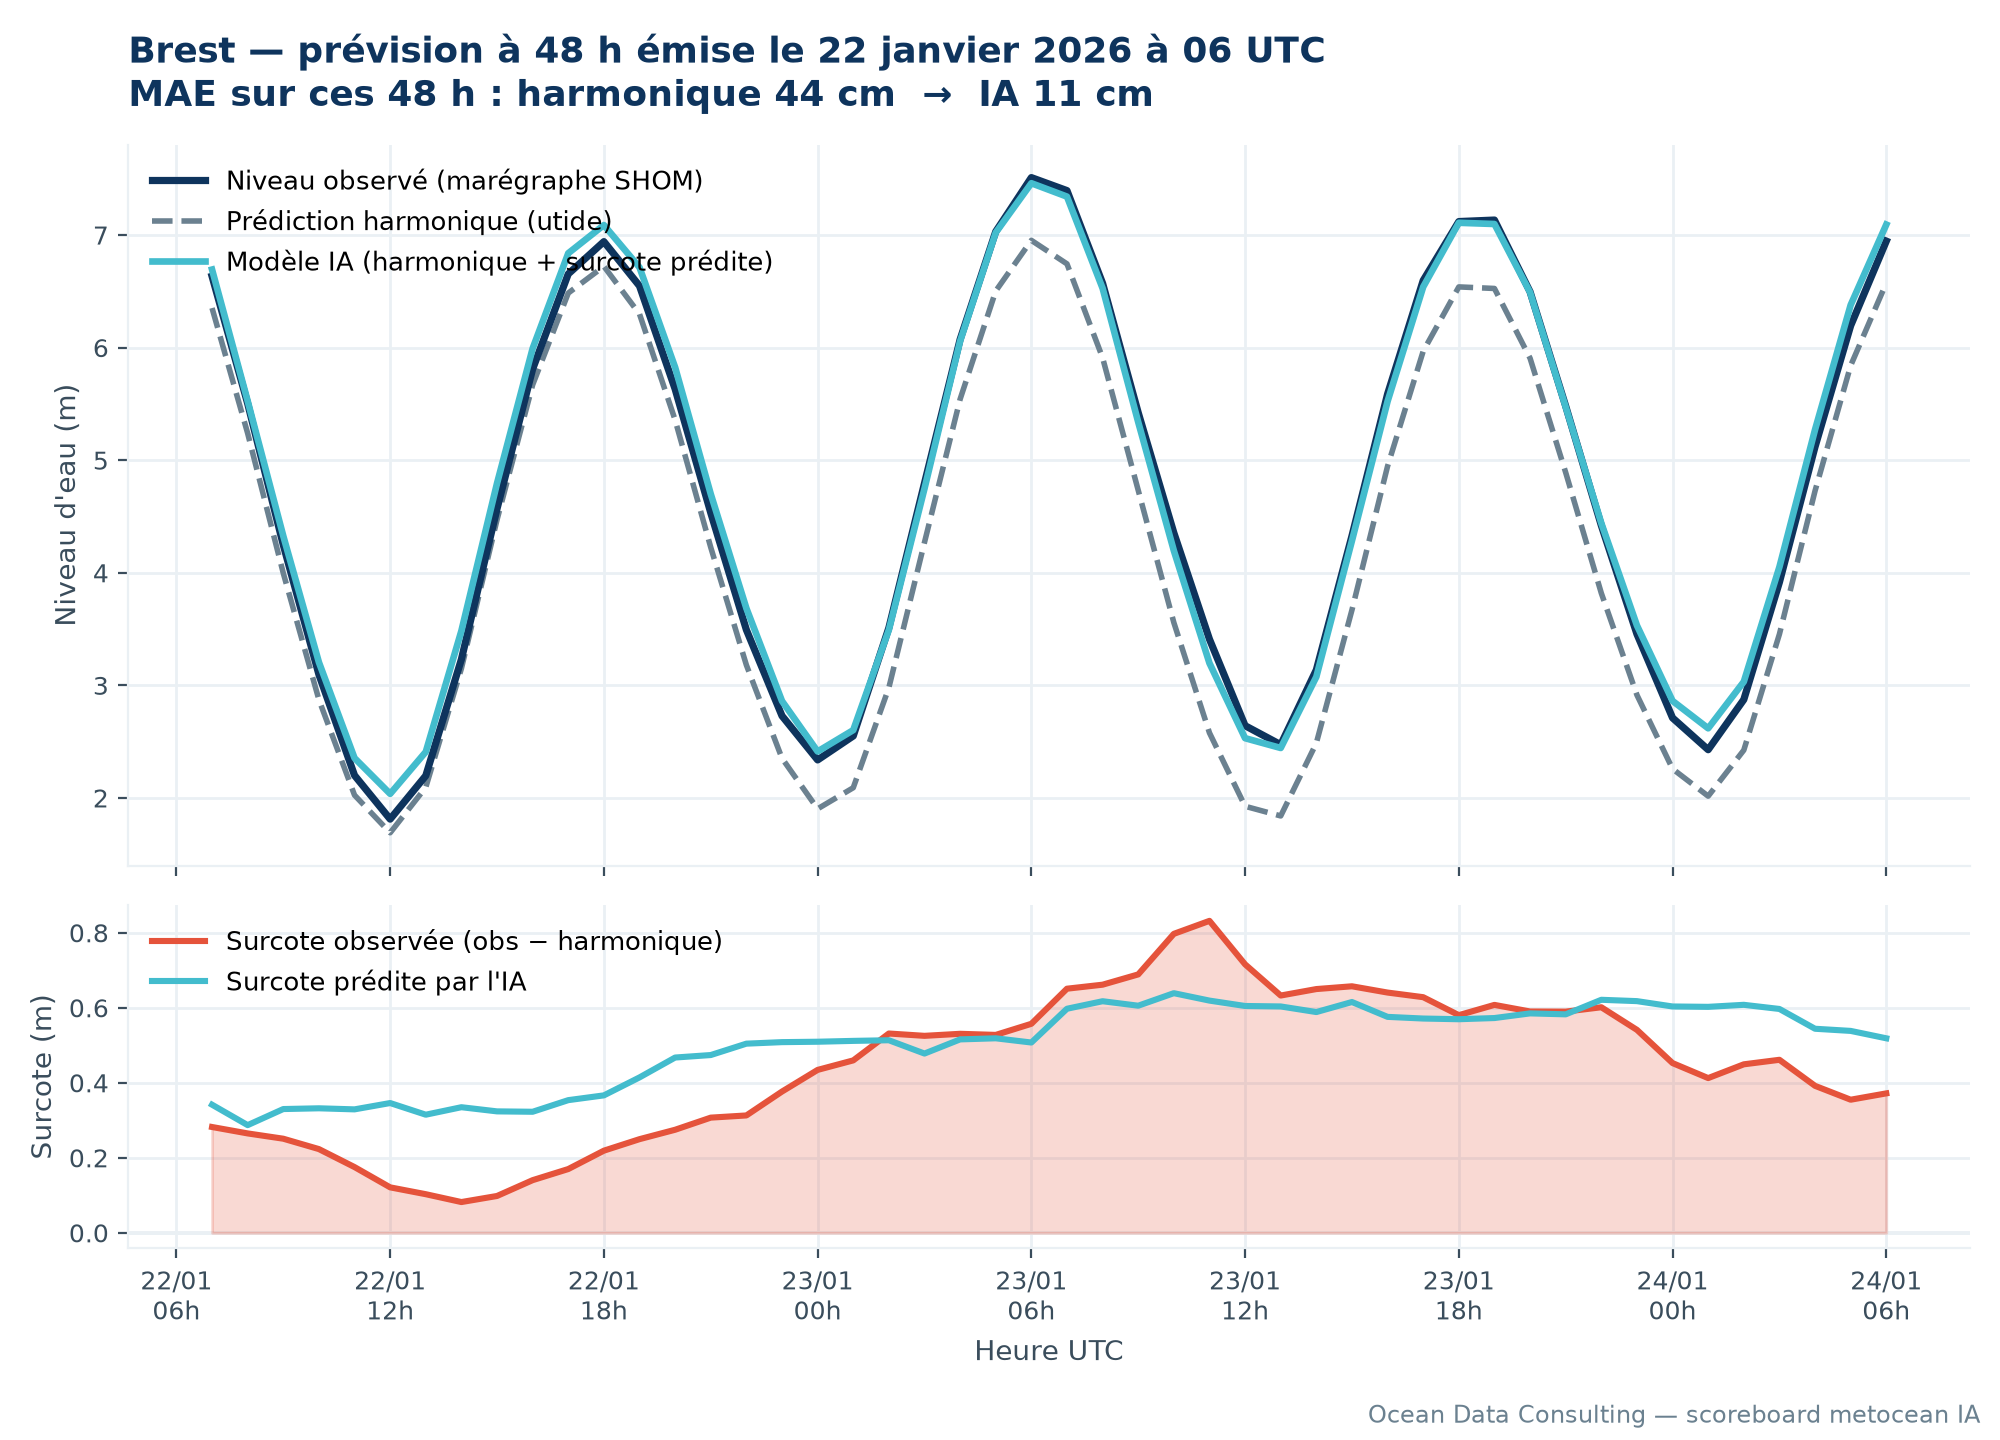
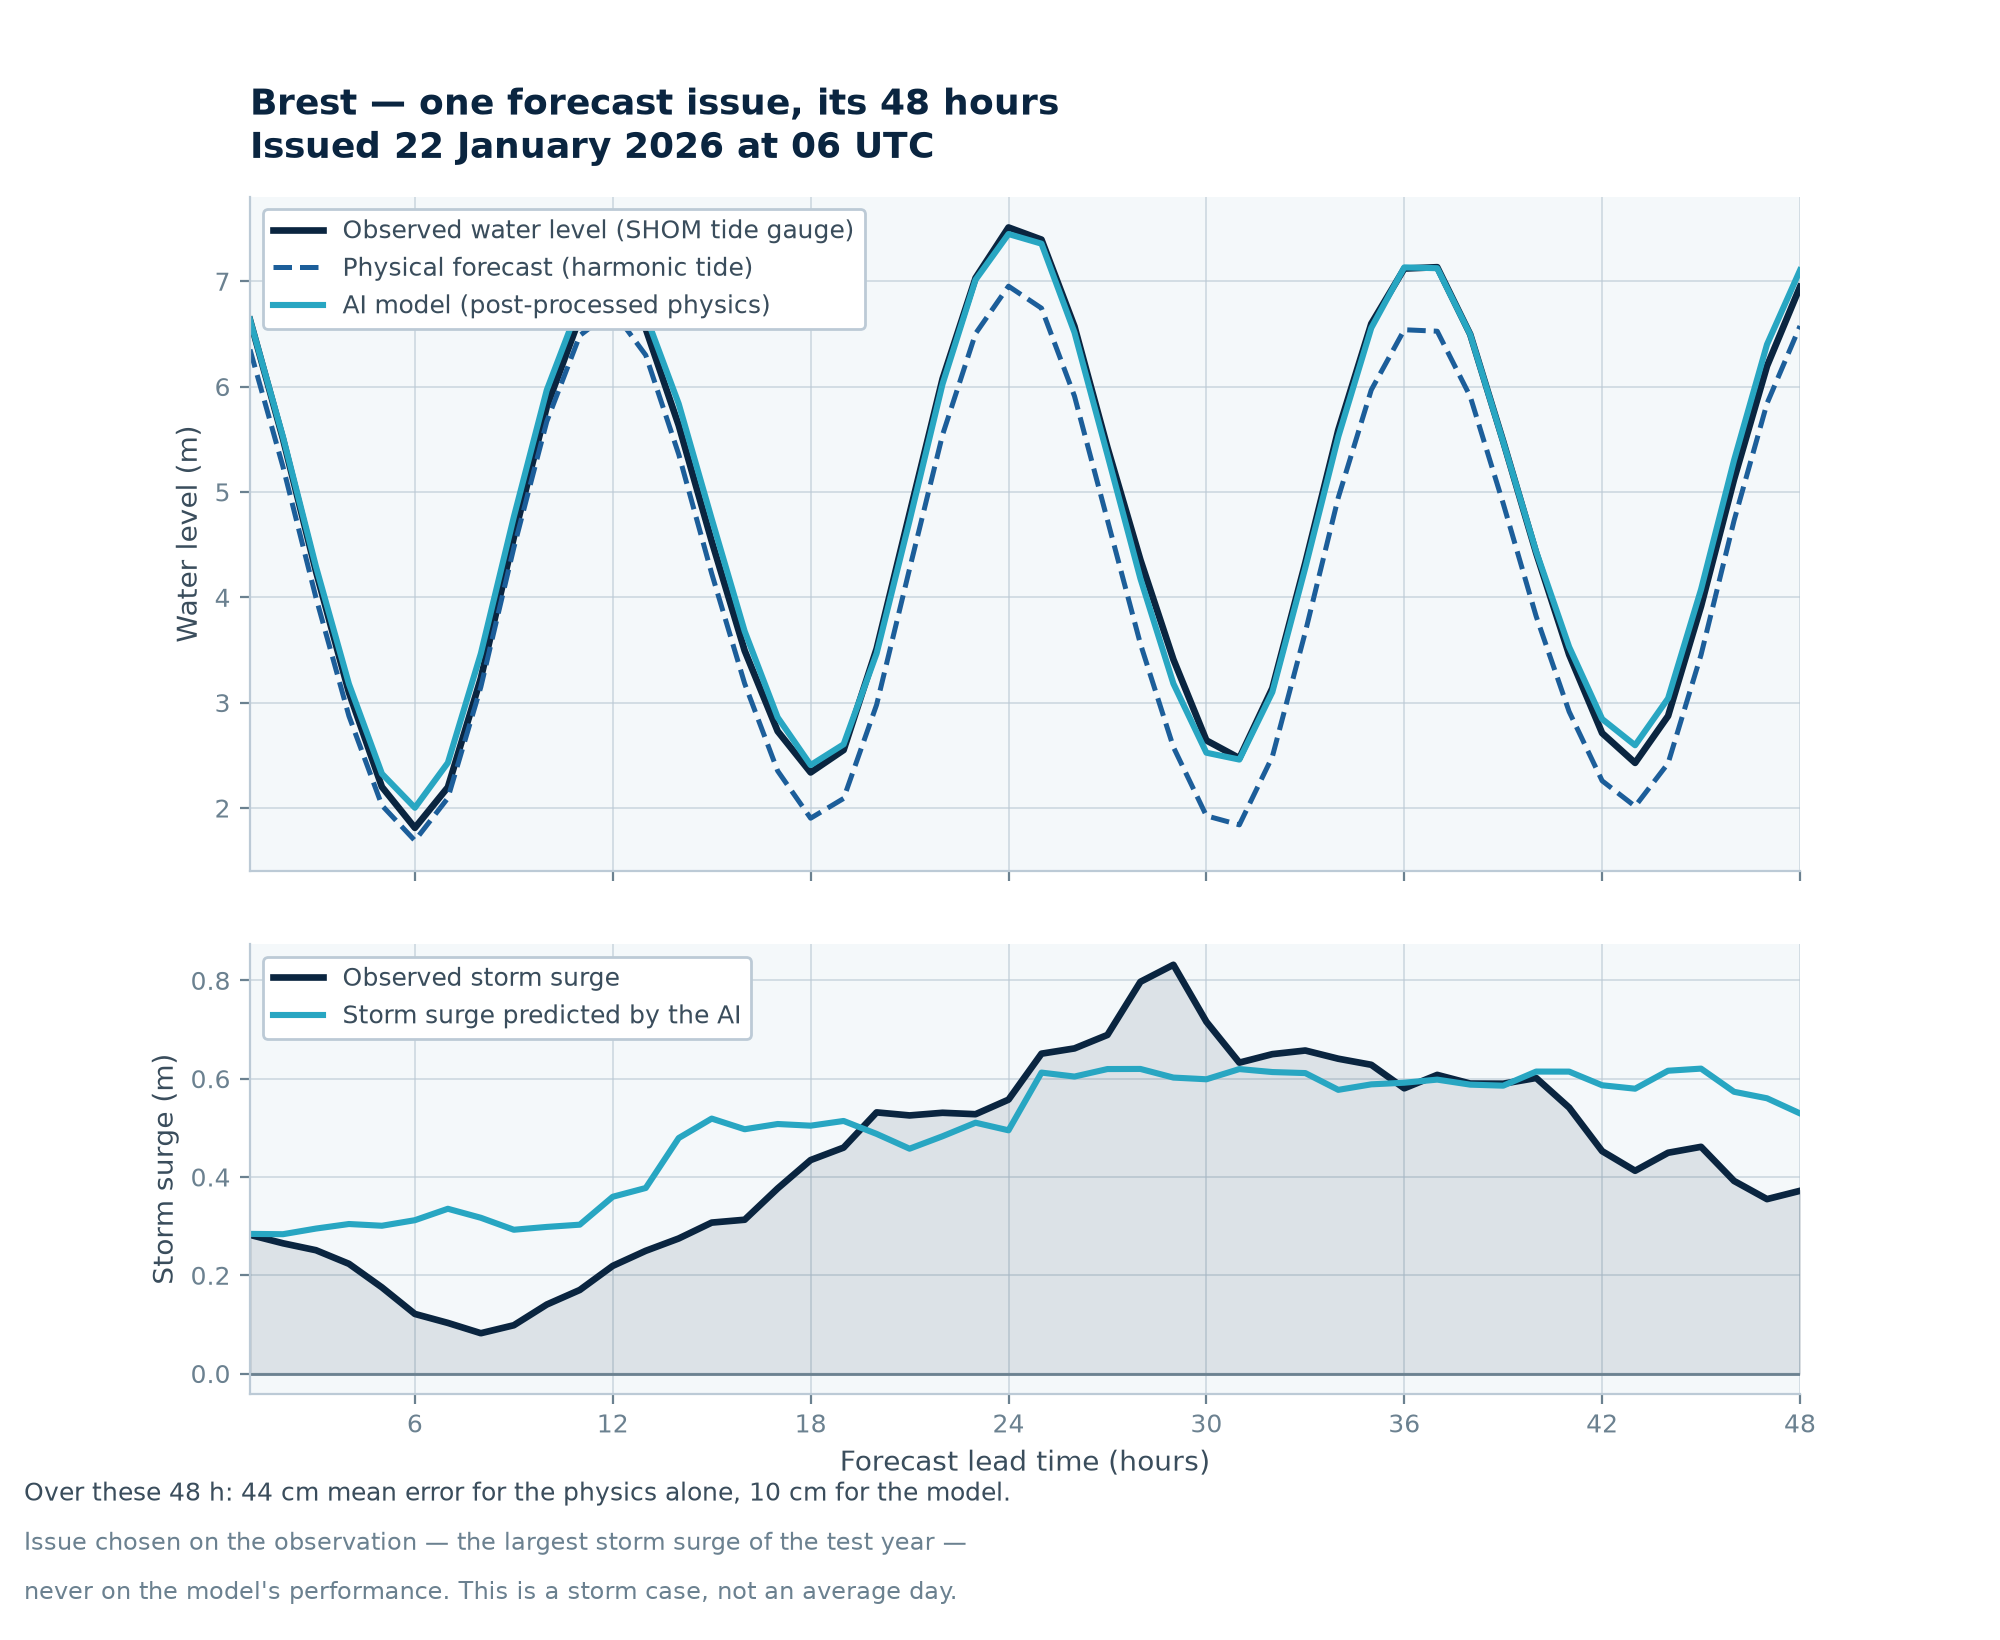
docs(editorial): la figure du post se régénère, elle ne se redessine plus à la main
La figure de tête était produite à la main, sans script. Conséquence constatée
aujourd'hui : le post citait 44 et 11 cm mesurés sur un modèle qui n'existait
plus, et rien ne permettait de les vérifier sans refaire le tracé de mémoire. Une
figure qui affiche une mesure est une affirmation comme les autres — elle doit
être reproductible depuis le dépôt.

`pipeline/scripts/figure_surge.py` la régénère depuis les données et l'artefact
publié. L'émission est choisie **sur l'observation** — la surcote maximale de
l'année de test — et recalculée plutôt que codée en dur, pour que le choix reste
honnête si la fenêtre de test bouge ; elle retombe sur le 22 janvier 2026, comme
la version manuelle. Couleurs prises sur les tokens ODC (`docs/brand.md`),
résolues en dur ici parce que matplotlib ne lit pas de variables CSS.

matplotlib n'entre pas dans les dépendances du pipeline (`uv run --with
matplotlib`) : rien en production ne dessine, et une pile de tracé n'a rien à
faire dans la résolution du run quotidien.

**Libellés en anglais**, alors que le post qui la porte est en français : décidé
le 2026-08-04, l'image circule plus loin que sa légende. Les noms de mois sont
écrits en dur plutôt que pris sur `%B`, qui suit LC_TIME et donc la machine qui
génère — une figure ne doit pas changer de langue selon le shell. La note du post
le dit aussi, pour qu'une relecture ne « corrige » pas ça.

Deux défauts de mise en page corrigés et commentés sur place parce qu'ils se
[…]

diff --git a/pipeline/scripts/figure_surge.py b/pipeline/scripts/figure_surge.py
@@ -1,0 +1,182 @@
+#!/usr/bin/env python
+"""Regenerate `docs/editorial/figure-brest-surcote.png` — the post's lead image.
+
+Run:  cd pipeline && uv run --with matplotlib python scripts/figure_surge.py
+
+One forecast issue and its 48 h, twice: the water level (observation, harmonic
+prediction, model) on top, the surge alone underneath. The surge panel is the
+whole point — it is the quantity the model actually predicts, and the only one
+where the two curves can be told apart at a glance.
+
+**Why this script exists.** The first version of the figure was produced by hand
+and the post ended up quoting numbers from a model that no longer existed, with
+no way to check them short of redoing the plot from memory. A figure that states
+a measurement is a claim like any other: it has to be reproducible from the
+repository, and it has to be regenerated whenever the artefact changes.
+
+The emission is picked **on the observation, never on the model's performance**:
+the day of the largest absolute surge in the test window. That is a storm case
+and not an average day — the post says so, and must keep saying so. It resolves
+to 2026-01-22 today; it is recomputed rather than hardcoded so the figure stays
+honest if the test window moves, and the resolved date is printed for the caption.
+
+Matplotlib is not a pipeline dependency (`--with matplotlib`): nothing in
+production draws, and a plotting stack has no business in the daily run's
+resolution.
+"""
+from __future__ import annotations
+
+import sys
+from pathlib import Path
+
+import numpy as np
+import pandas as pd
+
+ROOT = Path(__file__).resolve().parents[2]
+sys.path.insert(0, str(ROOT / "pipeline" / "scripts"))
+sys.path.insert(0, str(ROOT / "pipeline" / "src"))
+
+import train as T
+from scoreboard import model
+from scoreboard.config import load_stations
+
+OUT = ROOT / "docs" / "editorial" / "figure-brest-surcote.png"
+STATION = "brest"
+ISSUE_HOUR = 6
+
+# Ocean Data Consulting tokens, resolved to values here because matplotlib cannot
+# read CSS custom properties. Source of truth stays
+# `~/Documents/DEV/WEB/ODC_WEBSITE/DESIGN_SYSTEM/tokens/colors.css` — see
+# `docs/brand.md`. Semantic role in the comment, so a token change is greppable.
+NAVY_900 = "#0A2540"  # --text-strong
+NAVY_600 = "#1C5E9A"  # --text-link, the harmonic
+CYAN_600 = "#28A6C2"  # --brand-accent, the model
+SLATE_700 = "#3A4D5C"  # --text-body
+SLATE_500 = "#6B8190"  # --text-muted
+SLATE_300 = "#BCCAD6"  # grid
+SLATE_50 = "#F4F8FA"  # --surface-page
+WHITE = "#FFFFFF"
+
+# Written out rather than taken from the locale: `%B` follows LC_TIME, which is
+# whatever the machine running this happens to have. The label must not depend on
+# the shell that generated the figure.
+#
+# The figure is labelled in **English** while the post that carries it is in
+# French. That is deliberate, decided 2026-08-04: the image travels further than
+# its caption. Do not "fix" it back.
+MONTHS = ("January", "February", "March", "April", "May", "June", "July",
+          "August", "September", "October", "November", "December")
+
+
+def pick_issue(x: pd.DataFrame, obs: pd.Series) -> pd.Timestamp:
+    """Issue day carrying the largest |surge| — chosen on the observation alone."""
+    resid = obs.to_numpy() - x["baseline"].to_numpy()
+    day = T.issue_days(x)
+    worst = pd.Series(np.abs(resid)).groupby(day.to_numpy()).max().idxmax()
+    return pd.Timestamp(worst) + pd.Timedelta(hours=ISSUE_HOUR)
+
+
+def main() -> int:
+    import matplotlib
+
+    matplotlib.use("Agg")
+    import matplotlib.pyplot as plt
+    from matplotlib.ticker import MultipleLocator
+
+    station = next(s for s in load_stations() if s.id == STATION)
+    x, obs, is_test, _ = T._tide_data(station, T.TEST_DAYS_BY_KIND["tide"])
+    xte, ote = x[is_test], obs[is_test]
+
+    t0 = pick_issue(xte, ote)
+    rows = T.issue_days(xte) == t0.normalize()
+    xi, oi = xte[rows], ote[rows]
+    order = np.argsort(xi["lead_h"].to_numpy())
+    xi, oi = xi.iloc[order], oi.iloc[order]
+
+    level_model = T._levels(model.load(STATION), xi, "tide")
+    harmonic = xi["baseline"].to_numpy()
+    observed = oi.to_numpy()
+    lead = xi["lead_h"].to_numpy()
+
+    mae_h = float(np.abs(observed - harmonic).mean())
+    mae_m = float(np.abs(observed - level_model).mean())
+    peak_obs = float(np.max(np.abs(observed - harmonic)))
+    peak_mod = float((level_model - harmonic)[np.argmax(np.abs(observed - harmonic))])
+
+    fig, (ax1, ax2) = plt.subplots(
+        2, 1, figsize=(10, 8.2), sharex=True, height_ratios=[3, 2],
+        gridspec_kw={"hspace": 0.13},
+    )
+    fig.patch.set_facecolor(WHITE)
+
+    for ax in (ax1, ax2):
+        ax.set_facecolor(SLATE_50)
+        ax.grid(True, color=SLATE_300, linewidth=0.6, alpha=0.7)
+        ax.set_axisbelow(True)
+        for side in ("top", "right"):
+            ax.spines[side].set_visible(False)
+        for side in ("left", "bottom"):
+            ax.spines[side].set_color(SLATE_300)
+        ax.tick_params(colors=SLATE_500, labelsize=9)
+        ax.xaxis.set_major_locator(MultipleLocator(6))
+
+    ax1.plot(lead, observed, color=NAVY_900, lw=2.4, label="Observed water level (SHOM tide gauge)")
+    ax1.plot(lead, harmonic, color=NAVY_600, lw=1.8, ls="--", label="Physical forecast (harmonic tide)")
+    ax1.plot(lead, level_model, color=CYAN_600, lw=2.2, label="AI model (post-processed physics)")
+    ax1.set_ylabel("Water level (m)", color=SLATE_700, fontsize=10)
+    ax1.legend(
+        loc="upper left", frameon=True, facecolor=WHITE, edgecolor=SLATE_300,
+        fontsize=9, labelcolor=SLATE_700, framealpha=1.0,
+    )
+    ax1.set_title(
+        f"Brest — one forecast issue, its 48 hours\n"
+        f"Issued {t0.day} {MONTHS[t0.month - 1]} {t0.year} at {t0:%H} UTC",
+        color=NAVY_900, fontsize=13, fontweight="bold", loc="left", pad=14,
+    )
+
+    # The surge alone: what the model is actually asked to predict. Same colours
+    # as above so the eye carries the mapping down from one panel to the other.
+    ax2.axhline(0, color=SLATE_500, lw=1)
+    ax2.fill_between(lead, 0, observed - harmonic, color=NAVY_900, alpha=0.10)
+    ax2.plot(lead, observed - harmonic, color=NAVY_900, lw=2.4, label="Observed storm surge")
+    ax2.plot(lead, level_model - harmonic, color=CYAN_600, lw=2.2, label="Storm surge predicted by the AI")
+    ax2.set_ylabel("Storm surge (m)", color=SLATE_700, fontsize=10)
+    ax2.set_xlabel("Forecast lead time (hours)", color=SLATE_700, fontsize=10)
+    ax2.legend(
+        loc="upper left", frameon=True, facecolor=WHITE, edgecolor=SLATE_300,
+        fontsize=9, labelcolor=SLATE_700, framealpha=1.0,
+    )
+    ax2.set_xlim(lead.min(), lead.max())
+
+    # Three short lines rather than one long one. Twice now the caption has run
+    # off the right edge, and both times the half that got cut was the half
+    # saying how the case was chosen — i.e. the honest half. Short lines cannot
+    # overflow silently; a long one can, and did.
+    for y, text, color, size in (
+        (0.085,
+         f"Over these 48 h: {mae_h * 100:.0f} cm mean error for the physics alone, "
+         f"{mae_m * 100:.0f} cm for the model.", SLATE_700, 9),
+        (0.055,
+         "Issue chosen on the observation — the largest storm surge of the test year —",
+         SLATE_500, 8.5),
+        (0.025,
+         "never on the model's performance. This is a storm case, not an average day.",
+         SLATE_500, 8.5),
+    ):
+        fig.text(0.012, y, text, color=color, fontsize=size)
+    # `tight_layout(rect=...)` was not keeping the x-axis title above the caption
+    # — it does not know about `fig.text`, and the label kept landing on the first
+    # line. An explicit bottom margin is the one thing it cannot argue with.
+    fig.tight_layout()
+    fig.subplots_adjust(bottom=0.15)
+    fig.savefig(OUT, dpi=200, facecolor=WHITE)
+
+    print(f"{OUT.relative_to(ROOT)}")
+    print(f"  émission      : {t0:%Y-%m-%d %H:%M} UTC")
+    print(f"  MAE 48 h      : physique {mae_h * 100:.1f} cm -> modèle {mae_m * 100:.1f} cm")
+    print(f"  pic de surcote: observé {peak_obs * 100:.0f} cm, prédit {peak_mod * 100:.0f} cm")
+    return 0
+
+
+if __name__ == "__main__":
+    raise SystemExit(main())

diff --git a/docs/editorial/2026-08-04-linkedin-annonce-scoreboard.md b/docs/editorial/2026-08-04-linkedin-annonce-scoreboard.md
@@ -183,15 +183,16 @@ affirmations du post (le réseau publié, et ce que le modèle prédit vraiment)
 1. **`figure-brest-surcote.png`** (dans ce dossier, généré depuis les données du
    dépôt) — **l'image de tête**. Une seule émission, celle du 22 janvier 2026 à
    06 UTC, et ses 48 h : niveau observé, prédiction harmonique, modèle IA ; en
-   dessous, la surcote seule. Sur ces 48 h, 44 cm d'erreur pour l'harmonique,
-   11 cm pour le modèle. ⚠ Ces deux chiffres datent du modèle d'avant le
-   2026-08-04 : régénérer la figure avant publication, ou les revérifier. C'est le visuel qui montre en une seconde ce qu'aucune
+   dessous, la surcote seule. Sur ces 48 h, **44 cm d'erreur pour la physique
+   seule, 10 cm pour le modèle**. Régénérée le 2026-08-04 sur le modèle publié
+   par `pipeline/scripts/figure_surge.py` — **la relancer après chaque retrain**,
+   la figure porte des chiffres et ce sont des affirmations comme les autres. C'est le visuel qui montre en une seconde ce qu'aucune
    phrase ne fait passer : l'harmonique est *décalée vers le bas pendant deux
    jours*, et c'est cet écart-là que le modèle prédit.
 
    Deux honnêtetés à assumer si on en parle en commentaire : le modèle
-   sous-estime le pic (58 cm prédits contre 85 observés), et cette émission est
-   la plus forte surcote de l'année de test — c'est un cas de tempête, pas une
+   sous-estime le pic (**60 cm prédits contre 83 observés**), et cette émission
+   est la plus forte surcote de l'année de test — c'est un cas de tempête, pas une
    journée moyenne. Choisie sur l'observation, jamais sur la performance du
    modèle. Le dire vaut mieux que se le faire dire.
 
